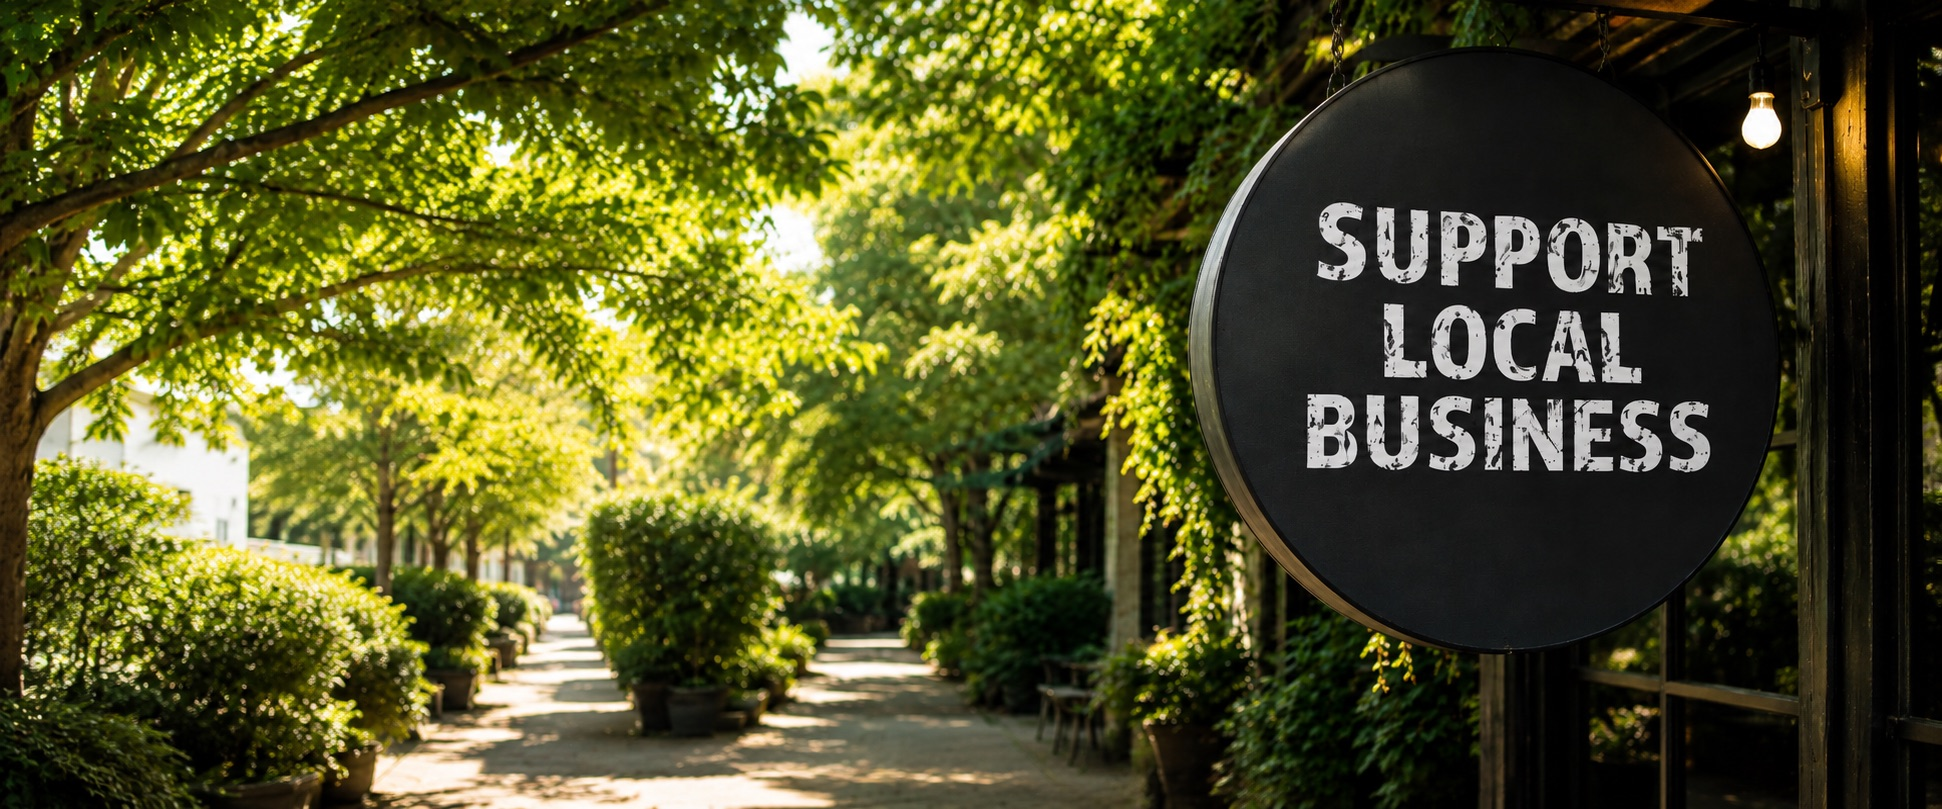
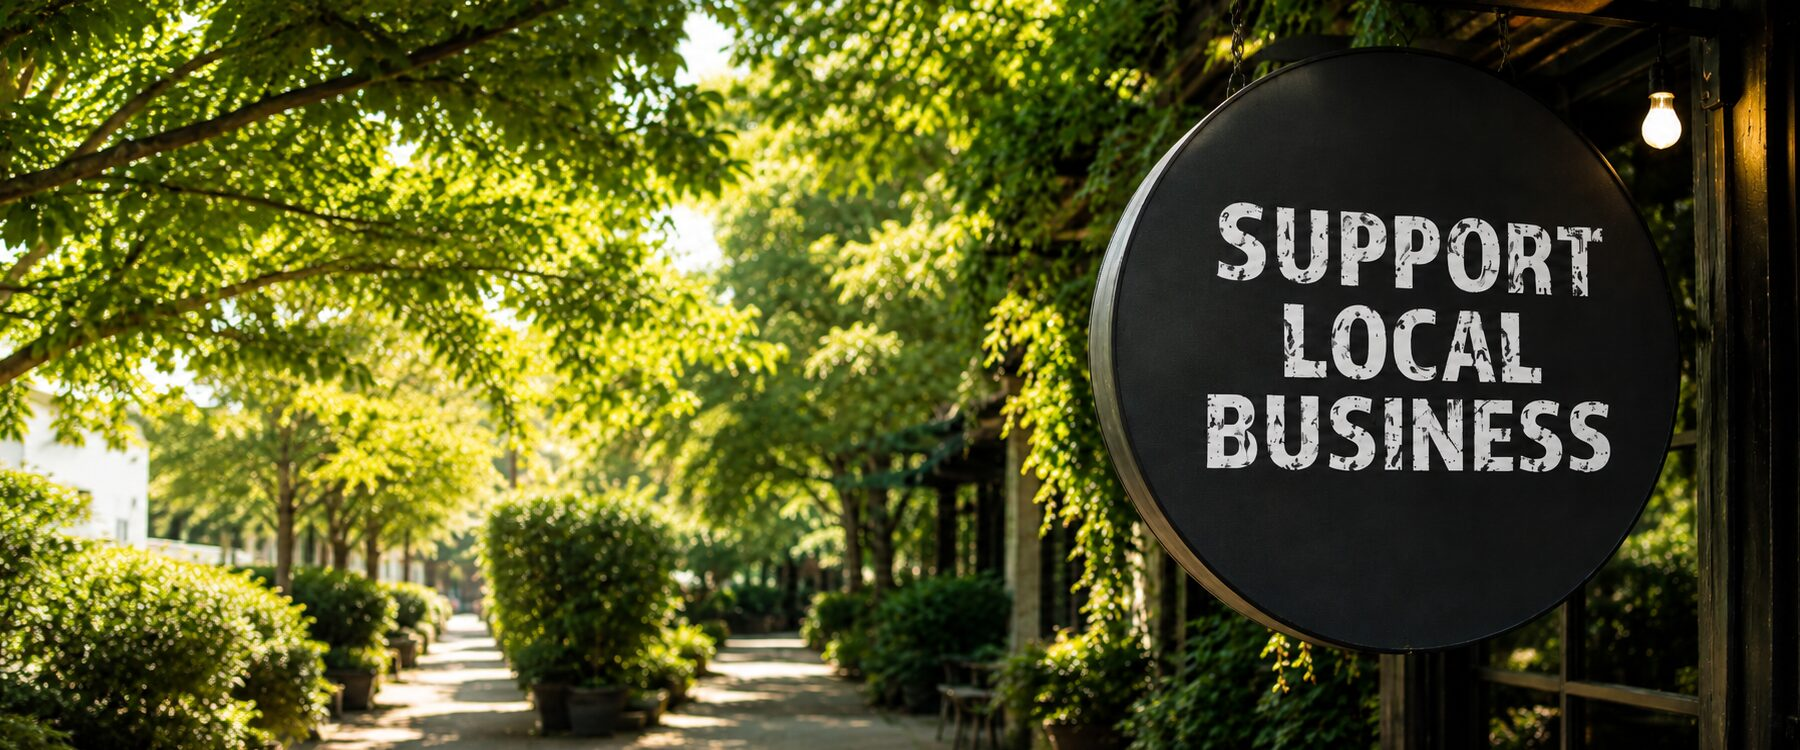
Recenter the sign in the SBI hero photo
Cropped the source photo (1942x809, matching the hero's 2.4:1 ratio
almost exactly, which left no room for CSS-side repositioning) down to
1800x750, shifted so the sign's vertical center lands in the middle of
the frame instead of sitting high. Verified against the actual
rendered hero, not just measured.

diff --git a/small-business-initiative.html b/small-business-initiative.html
@@ -156,8 +156,8 @@
   <section class="phero imgband light" id="sbiHero">
     <div class="shot">
       <img src="images/sbi-picture.jpg"
-           srcset="images/sbi-picture-sm.jpg 900w, images/sbi-picture.jpg 1942w"
-           sizes="100vw" alt="" width="1942" height="809" fetchpriority="high" />
+           srcset="images/sbi-picture-sm.jpg 900w, images/sbi-picture.jpg 1800w"
+           sizes="100vw" alt="" width="1800" height="750" fetchpriority="high" />
     </div>
     <div class="veil"></div>
     <div class="wrap">
